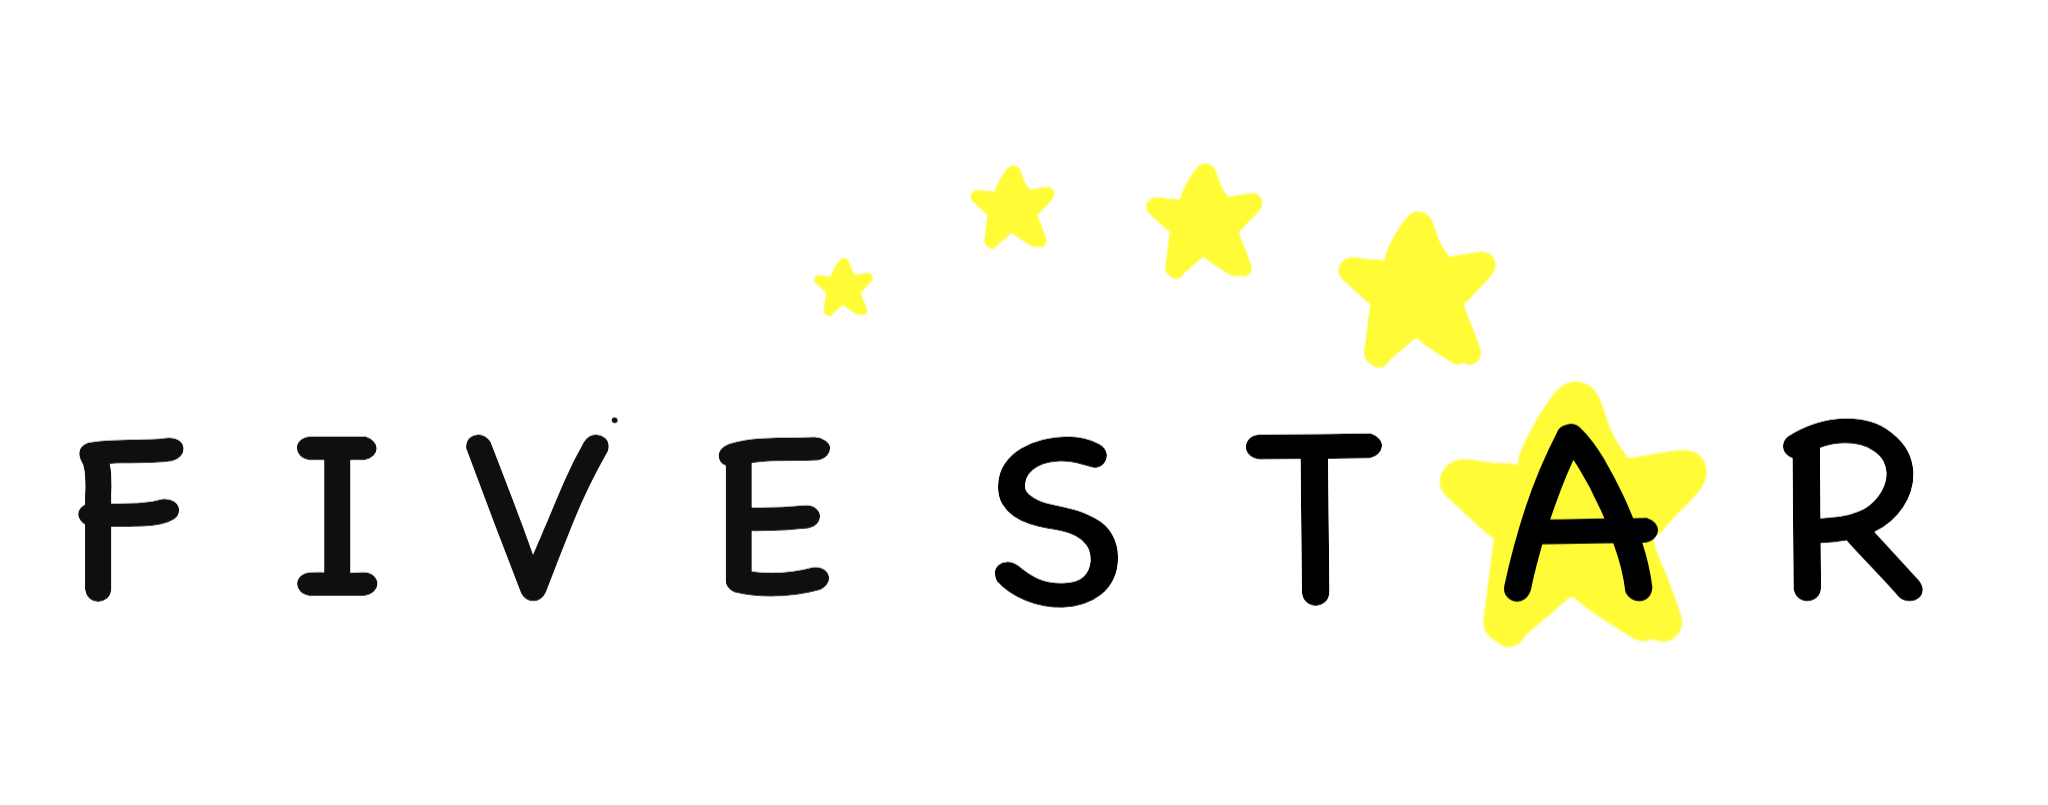
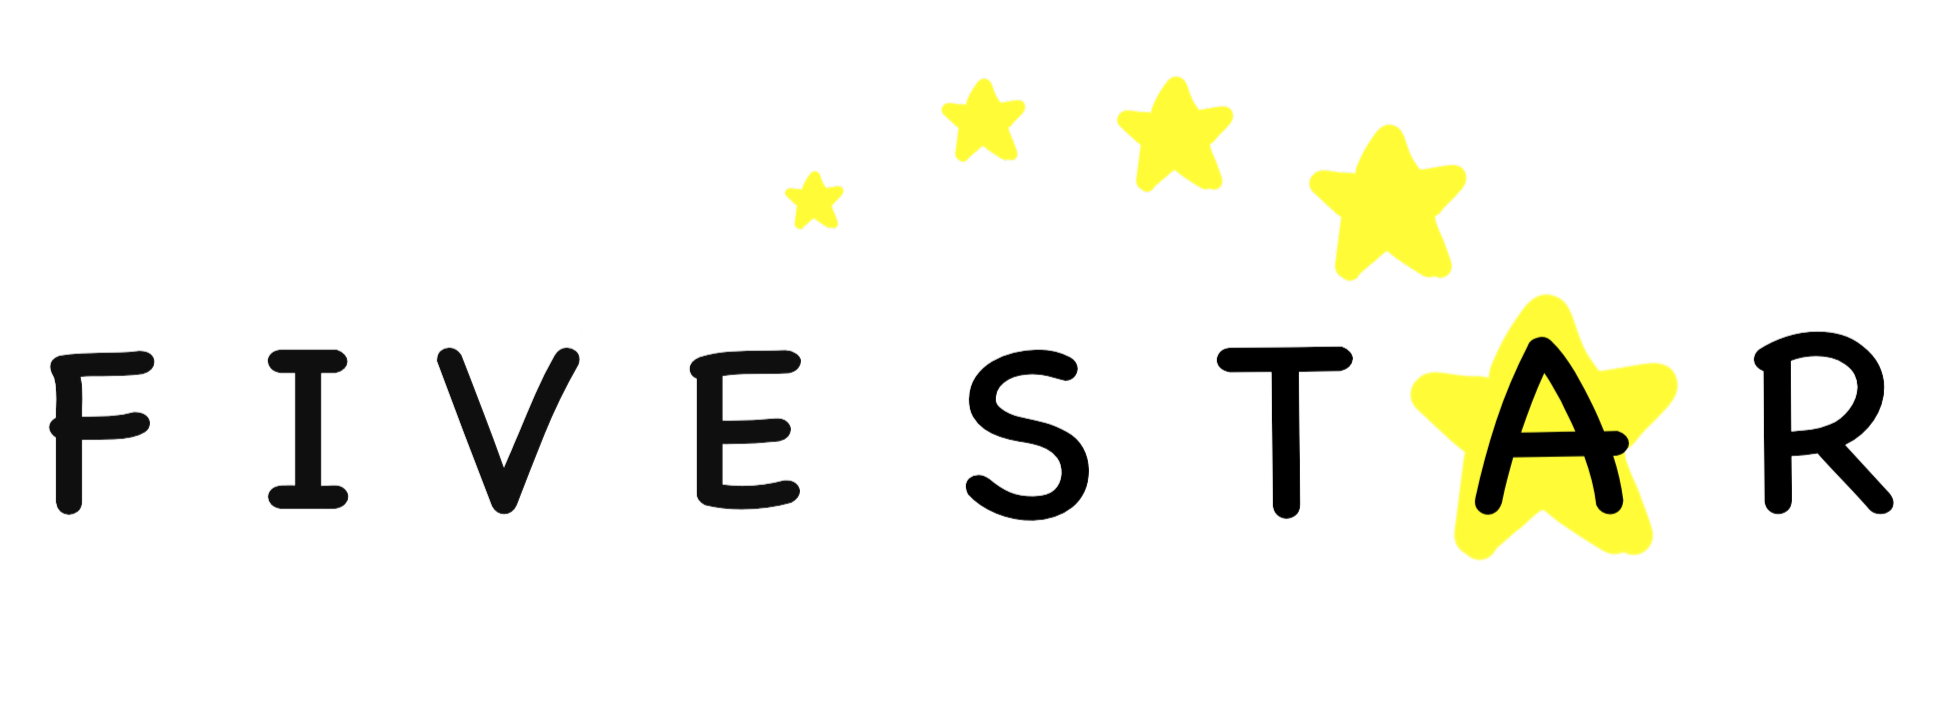
nav bar and header

diff --git a/index.html b/index.html
@@ -6,22 +6,29 @@
     <link rel="stylesheet" href="https://cdnjs.cloudflare.com/ajax/libs/materialize/1.0.0/css/materialize.min.css">
     <title>Document</title>
     <link rel="stylesheet" href="./assets/css/style.css" />
+    <link href="https://fonts.googleapis.com/icon?family=Material+Icons" rel="stylesheet">
 </head>
 <body>
-    <main class="container">
-        <section class="columns">
-            <form class="column is-half" id="city-form">
-                <input class="input is-rounded" tyle="text" placeholder="Enter City" id="input-city">
-                <button class="button is-danger" type="submit">Submit City</button>
-            </form>
-        <section class="column is-half" id="city-giphy">
-
-        </section>
-        <section class="column is-half" id="sponge-giphy">
-
-        </section>
-        </section>
-
+    <nav>
+        <div class="nav-wrapper">
+          <ul class="left hide-on-med-and-down">
+            <li><a href="sass.html"><i class="material-icons">search</i></a></li>
+            <li><input id="icon_prefix" type="text" class="validate" placeholder="Search"></li>
+            <a href="#" class="brand-logo right">
+                <div class="input-field col s6">
+                    <i class="material-icons prefix">account_circle</i>
+                    <input id="icon_prefix" type="text" class="validate" placeholder="Name">
+                  </div>
+                </div>
+            </a>
+          </ul>
+        </div>
+      </nav>
+        <img class="logo" src="./assets/IMG_0207.PNG">
+    <main>
+        <div>
+            <h5 class="center-align">A website where you can search for movies and their soundtracks, add movies/soundtracks to your watchlist, and save your reviews and comments after watching.</h5>
+        </div>
     </main>
     <script src="./assets/js/main.js"></script>
 </body>

diff --git a/assets/css/style.css b/assets/css/style.css
@@ -1,6 +1,16 @@
-/* @import "https://cdn.jsdelivr.net/npm/bulma@0.9.4/css/bulma.min.css"; */
-
 body{
   background: aquamarine;
   min-height: 100vh;
+}
+
+.logo {
+  width: auto;
+  max-height: 200px;
+  display: block;
+  margin-left: auto;
+  margin-right: auto;
+}
+
+nav {
+  background-color: darkcyan;
 }
